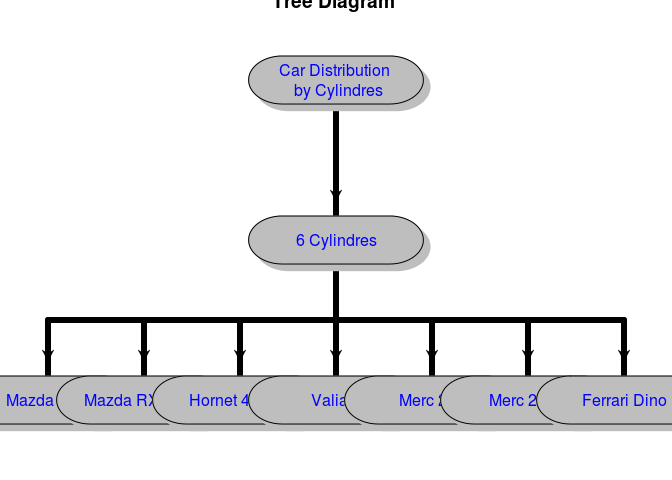
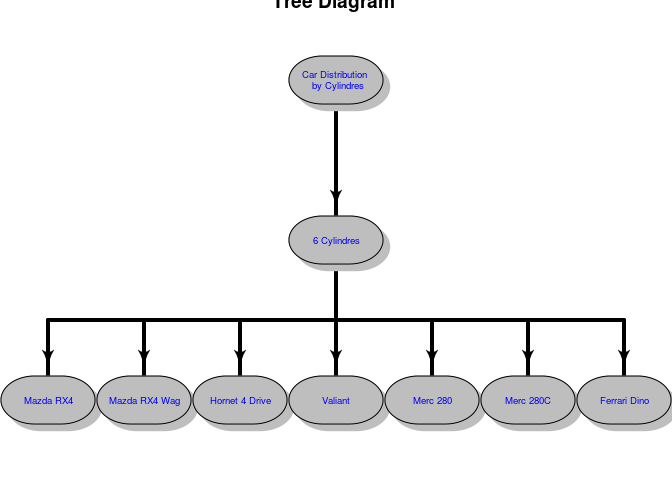
Tree Diagram Python

diff --git a/display-patterns/Hierarchies/A62Tree_Map.md b/display-patterns/Hierarchies/A62Tree_Map.md
@@ -1,0 +1,32 @@
+
+
+# A 6.2: TREE MAP
+
+
+## Description
+
+A tree map is an alternative representation of a tree structure and was proposed by Ben Shneiderman the early 1990s. While a conventional family tree displays the single elements and their family relations to each other, it doesn’t provide any information about these elements’ quantitative properties. The tree map arranges its items according to their position within the hierarchy and displays the magnitude of each items through
+a visual property such as color or size (Behrens, 2008). 
+
+
+## Required Data 
+
+Use a tree map to display a list of items where each item is defined by one or more
+properties. Several items from this list can be grouped to categories. More than three properties per item are not recommended for the sake of readability (Behrens, 2008).
+
+
+## Usage
+
+Sort the list containing your data by category. Each category now represents a first-level node of the tree structure. Each dataset within these categories are in turn child nodes of their respective categories. Create a rectangular structure as the container of your tree map. The resulting box represents the root node of your treemap. Divide this box into smaller boxes, one for each child node of the tree root. Split each box according to the number of child nodes and so on. As a result, you’ll get a graphic structure of nested boxes, with the smallest boxes representing the single data elements. Now adjust the elements according to the values they represent: Choose color as the graphic variables for one property, box size for the second, and so on (Behrens, 2008).
+
+
+## Rationale
+
+
+As mentioned above, the tree map does not invent a completely new way of structuring data. Instead, it provides an alternative way of accessing, reading and understanding complex data structures at a glance. Tree maps heavily rely on the concept of preattentive variables as its elements can vary in size, color or other graphic properties depending on their respective values. Thus, tree maps are a preferred method of displaying tree structures when the user needs an instant understanding about extreme values among the nodes(Behrens, 2008).
+
+
+# Related Patterns
+
+* A 5.2 Thread Arcs
+* A 6.1 Tree Diagram 

diff --git a/display-patterns/Hierarchies/A61Tree_Diagram.md b/display-patterns/Hierarchies/A61Tree_Diagram.md
@@ -23,8 +23,7 @@ Identify the root member of the dataset. Draw the graphic object its represents,
 
 The tree is the commonly accepted way of displaying family-style structures; constructs of elements that stand in some kind of inheritance relationship to each other. Through the strict placement of different generations on different levels the user can easily identify causal relationships within the data structure.
 
-Especially in connection to computers, tree structures are a somewhat ubiquitous concept of organizing data; an operating system maintains files in a tree, the functions of many applications are arranged hierarchically, just as the content of complex editors. The majority of websites provides its content in a similar way, so that users of digital media are sort of anticipating information offered
-in a tree-like fashion: Choosing one of a few main branches in the beginning, the search becomes more detailed the deeper he drills down the tree (Behrens, 2008).
+Especially in connection to computers, tree structures are a somewhat ubiquitous concept of organizing data; an operating system maintains files in a tree, the functions of many applications are arranged hierarchically, just as the content of complex editors. The  majority of websites provides its content in a similar way, so that users of digital media are sort of anticipating information offered in a tree-like fashion: Choosing one of a few main branches in the beginning, the search becomes more detailed the deeper he drills down the tree (Behrens, 2008).
 
 
 # Related Patterns

diff --git a/display-patterns/Hierarchies/A61Tree_DiagramR.md b/display-patterns/Hierarchies/A61Tree_DiagramR.md
@@ -45,10 +45,10 @@ Code Example
     y<-subset(mtcars, mtcars$cyl==6)
     z<-subset(mtcars, mtcars$cyl==8)
     elpos<-coordinates (c(1,1,7))
-    treearrow(from=elpos[1,],to=elpos[2,],lwd=6)  
-    treearrow(from=elpos[2,],to=elpos[3:9,],lwd=6) 
+    treearrow(from=elpos[1,],to=elpos[2,],lwd=4)  
+    treearrow(from=elpos[2,],to=elpos[3:9,],lwd=4) 
     labs<-c("Car Distribution \n by Cylindres", "6 Cylindres",  row.names(y))
-    for ( i in 1:length(labs)) textround (elpos[i,],radx=0.08,rady=0.05,lab=labs[i] , col = "blue", box.col="grey")
+    for ( i in 1:length(labs)) textround (elpos[i,],radx=0.02,rady=0.05,lab=labs[i] ,cex=0.6, col = "blue", box.col="grey")
 
 ![](A61Tree_DiagramR_files/figure-markdown_strict/unnamed-chunk-2-1.png)<!-- -->
 The complete online documentation is also available in the form of a
